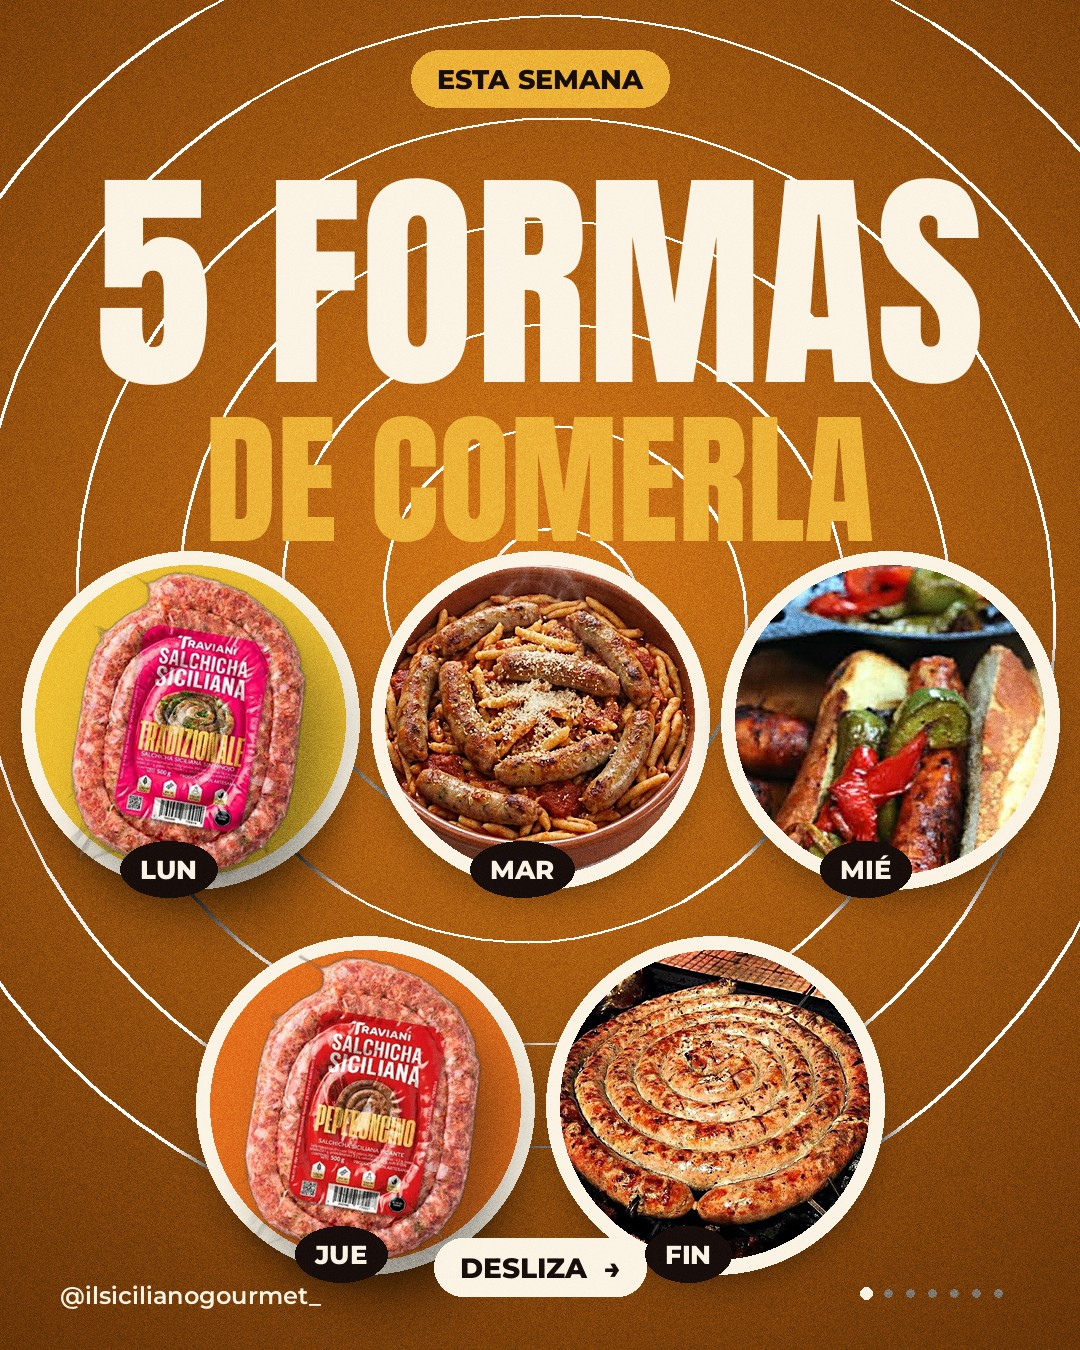
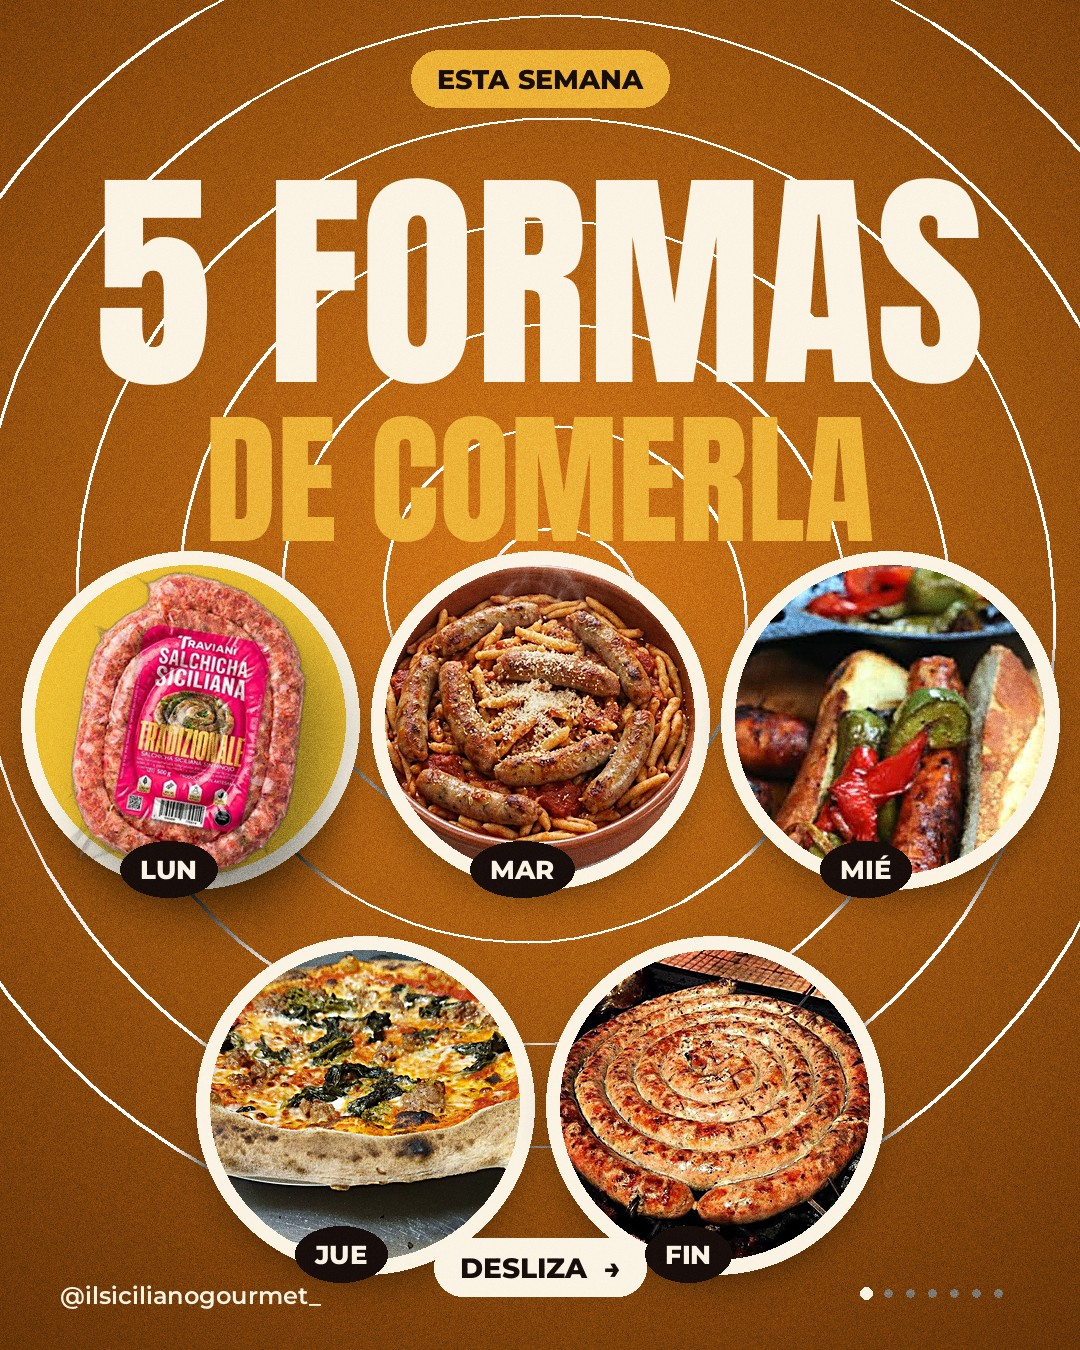
Día 6: pizza con recorte en portada y lámina del jueves
Claude-Session: https://claude.ai/code/session_01BoapLYkqJjC4bybfaGWR3T

Changed region(s): [[0.1833, 0.6844, 0.4889, 0.9644]]

diff --git a/disenos.py b/disenos.py
@@ -733,7 +733,7 @@ def portada_formas(total, fotos):
     xs2 = [W // 2 - dia // 2 - 20, W // 2 + dia // 2 + 20]
     items = [("LUN", ("emp", 2, (236, 190, 50))), ("MAR", ("img", fotos["pasta"].crop((150, 360, 690, 830)))),
              ("MIÉ", ("img", fotos["panini"].crop((110, 0, 430, 330)))),
-             ("JUE", ("emp", 3, (226, 110, 30))), ("FIN", ("img", fotos["parrilla"]))]
+             ("JUE", ("img", fotos["pizza"].crop((120, 40, 1180, 900)))), ("FIN", ("img", fotos["parrilla"]))]
     pos = [(xs3[0], y1), (xs3[1], y1), (xs3[2], y1), (xs2[0], y2), (xs2[1], y2)]
     for (et, (tipo, *a)), (cx, cy) in zip(items, pos):
         if tipo == "img":
@@ -778,6 +778,19 @@ def lamina_dia(dia_txt, forma, texto, modo, col, n, total, foto=None, caja=None,
         sh.paste((0, 0, 0, 140), (px + 14, py + 26, px + marco.width - 6, py + marco.height + 16))
         b.alpha_composite(sh.filter(ImageFilter.GaussianBlur(24)))
         b.alpha_composite(marco, (px, py))
+    elif modo == "recorte":
+        pz = foto
+        ancho_px = min(W - 60, int((disp - 60) * pz.width / pz.height))
+        pz = pz.resize((ancho_px, int(pz.height * ancho_px / pz.width)), Image.LANCZOS).rotate(-3, expand=True, resample=Image.BICUBIC)
+        gh = Image.new("RGBA", (W, h), (0, 0, 0, 0))
+        fg = anton(520 if T else 420)
+        ImageDraw.Draw(gh).text((-20, y_fin + (60 if T else 20)), ghost or forma.split()[-1], font=fg, fill=(255, 255, 255, 38))
+        b.alpha_composite(gh)
+        py = int(y_fin + 20 + (disp - pz.height) / 2) - (90 if empaque_n else 0)
+        pegar_producto(b, pz, ((W - pz.width) // 2, py), brillo=(255, 200, 120))
+        if empaque_n:
+            pk = empaque(empaque_n, int(disp * 0.42), 8)
+            pegar_producto(b, pk, (W - pk.width - 40, py + pz.height - int(pk.height * 0.62)))
     else:  # grafico
         gh = Image.new("RGBA", (W, h), (0, 0, 0, 0))
         fg = anton(520 if T else 420)

diff --git a/dia06.py b/dia06.py
@@ -10,7 +10,9 @@ ROJO = (196, 44, 26)
 
 def laminas():
     pasta, panini, esp = D.cargar("pasta.png"), D.cargar("panini.png").crop((0, 242, 452, 650)), D.cargar("espiral.png")
-    fotos = dict(pasta=pasta, panini=panini, parrilla=esp)
+    pizza = Image.open(f"{D.FOT}/pizza_recorte.png").convert("RGBA")
+    pizza_ft = D.cargar("pizza.png")
+    fotos = dict(pasta=pasta, panini=panini, parrilla=esp, pizza=pizza_ft)
     total = 7
     return [
         lambda: D.portada_formas(total, fotos),
@@ -20,8 +22,8 @@ def laminas():
                              "circulo", ROJO, 3, total, foto=pasta, caja=(150, 360, 690, 830)),
         lambda: D.lamina_dia("MIÉRCOLES", "EN PANINI", "Con pimentones asados y pan crujiente. El almuerzo rápido que sí llena.",
                              "polaroid", (30, 120, 92), 4, total, foto=panini, caja=(0, 0, 452, 408)),
-        lambda: D.lamina_dia("JUEVES", "EN PIZZA", "En rodajas sobre la masa, con queso y salsa. La pizza de jueves sube de nivel.",
-                             "grafico", (226, 112, 30), 5, total, empaque_n=3, ghost="PIZZA"),
+        lambda: D.lamina_dia("JUEVES", "EN PIZZA", "Sobre la masa, con queso y salsa. La pizza de jueves sube de nivel.",
+                             "recorte", (200, 84, 22), 5, total, foto=pizza, ghost="PIZZA", empaque_n=3),
         lambda: D.lamina_foto_completa(esp, 0.5, 0.45, None, "A LA PARRILLA",
                                        "Entera, en espiral y con los panas. La forma clásica de comerla.", 6, total, ROJO, "FIN DE SEMANA"),
         lambda: D.lamina_cierre_parrilla("¿CUÁL PRUEBAS\nPRIMERO?", ENTREGA + [WA], "PIDE DIRECTO CON NOSOTROS", total,
